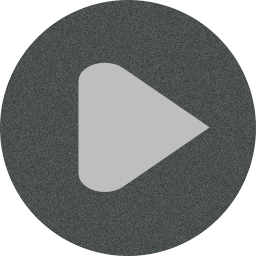
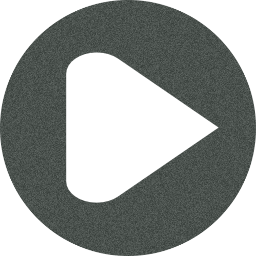
next button

Changed region(s): [[0.25, 0.1875, 0.8438, 0.8125]]

diff --git a/src/index.js b/src/index.js
@@ -102,6 +102,7 @@ let textureSpeedNormal = await PIXI.Assets.load({src: 'gfx/normal.png'})
 let textureSpeedFast = await PIXI.Assets.load({src: 'gfx/fast.png'})
 let textureBtnMenu = await PIXI.Assets.load({src: 'gfx/menu.png'})
 let textureBtnStop = await PIXI.Assets.load({src: 'gfx/stop.png'})
+let textureBtnPlay = await PIXI.Assets.load({src: 'gfx/play.png'})
 let textureBtnTrade = await PIXI.Assets.load({src: 'gfx/trade.png'})
 let texturePlayer = await PIXI.Assets.load({src: 'gfx/player.png'})
 let textureHodler = await PIXI.Assets.load({src: 'gfx/hodler.png'})
@@ -305,46 +306,11 @@ let textureCloud = await PIXI.Assets.load({src: 'gfx/cloud.png'})
         }
     }
 
-    let localStorageCache = {}
-
-    function setMute(value, type = '') {
-        localStorageCache['mute'+type] = value
-        localStorage.setItem('mute'+type, value)
-        
-        if (type === 'music') {
-            if (value) {
-                SoundManager.muteMusic()
-            } else {
-                SoundManager.unmuteMusic()
-            }
-        } else {
-            if (value) {
-                SoundManager.muteSounds()
-            } else {
-    
-                SoundManager.unmuteSounds()
-            }
-        }
-       
-    }
-
-    function getMute(type = '') {
-        return localStorageCache['mute'+type] ?? getBooleanFromLocalStorage('mute'+type)
-    }
 
     setMute(getMute())
     setMute(getMute('music'),'music')
 
-    function setWin(level, value) {
-        if (localStorageCache['l'+level] !== value) {
-            localStorageCache['l'+level] = value
-            localStorage.setItem('l'+level, value)
-        }
-    }
-
-    function getWin(level) {
-        return localStorageCache['l'+level] ?? getFloatFromLocalStorage('l'+level)
-    }
+    
 
     let options
     var maxVisiblePoints
@@ -587,7 +553,11 @@ let textureCloud = await PIXI.Assets.load({src: 'gfx/cloud.png'})
                 case 'w':
                 case 'Gamepads0':
                     if (isFinalScreen) {                
-                        startNewGame(options)
+                        if (yourFiat === options.fiatBTCHodler) {
+                            startNewGame(getNextLevel(options))
+                        } else {
+                            startNewGame(options)
+                        }
                         break;
                     }
                 case 'ArrowUp':
@@ -654,7 +624,11 @@ let textureCloud = await PIXI.Assets.load({src: 'gfx/cloud.png'})
                     startNewGame(gameData.levels.find(level => level.name === 'menu'))
                     showMenu(true)
                 } else if (swapImage.active) {
-                    startNewGame(options)
+                    if (yourFiat === options.fiatBTCHodler) {
+                        startNewGame(getNextLevel(options))
+                    } else {
+                        startNewGame(options)
+                    }
                 }
             }  else {
 
@@ -700,7 +674,7 @@ let textureCloud = await PIXI.Assets.load({src: 'gfx/cloud.png'})
     
     menu.visible = false
     startNewGame(gameData.levels.find(level => level.name === 'menu'))
-    showMenu(menu.visible)
+    showMenu(!menu.visible)
     app.ticker.add((deltaTime) => {
 
         handleGamepadInput()
@@ -790,6 +764,10 @@ let textureCloud = await PIXI.Assets.load({src: 'gfx/cloud.png'})
                     SoundManager.playSFX('game_lost')
                 }
 
+             
+                let tradeCount = trades.filter((trade,i) => ((i > 0 && i < trades.length && trade.fromName !== trade.toName))).length
+                let percentageCount = (yourCoinName === fiatName ? yourCoins : yourCoins*coins['BTC'].data[currentIndexInteger]?.price) / coins['BTC'].data[currentIndexInteger]?.price
+                setWin(options.name, percentageCount, tradeCount)
 
             }
             
@@ -993,9 +971,7 @@ let textureCloud = await PIXI.Assets.load({src: 'gfx/cloud.png'})
                 txt += "Oh no, you lost\n\n" 
             }
 
-            if (getWin(options.name) === 0 || res > getWin(options.name)) {
-                setWin(options.name, res)
-            }
+
 
             const word = hodlerActivities[Math.floor((deltaTime.lastTime * 0.0005) % hodlerActivities.length)];
            
@@ -1055,8 +1031,14 @@ let textureCloud = await PIXI.Assets.load({src: 'gfx/cloud.png'})
       
         if (isFinalScreen) {
             stopImage.texture = textureBtnMenu
-            swapImage.texture = textureBtnTrade
-            swapLabel.text = 'TRY AGAIN'
+           
+            if (yourFiat === options.fiatBTCHodler) {
+                swapLabel.text = options.next ? options.next.name : 'NEXT'
+                swapImage.texture = textureBtnPlay
+            } else {
+                swapLabel.text = 'TRY AGAIN'
+                swapImage.texture = textureBtnTrade
+            }
             stopLabel.text = 'MENU'
             
         } else{

diff --git a/src/helper.js b/src/helper.js
@@ -484,7 +484,7 @@ function parseGameData(jsonString, coins) {
     var gameData = JSON.parse(jsonString) 
     injectGeneratedLevels(gameData)
     
-    gameData.levels.forEach(level => {
+    gameData.levels.forEach((level,index) => {
         if (!level.coinNames) {
             //level.coinNames= Object.keys(coins).filter(name => name === 'BTC' || name === 'ADA'  || name === 'USD')
              level.coinNames = Object.keys(coins)
@@ -505,6 +505,7 @@ function parseGameData(jsonString, coins) {
         level.minPrice = pricesData.filter((p,index) => index >= level.indexStart && index <= level.indexEnd).reduce((max, p) => Math.min(p.price, max),Number.MAX_VALUE)
         level.music = level.music || 'music_game1'
         level.fiatStart = pricesData[ level.indexStart].price || 1000
+        level.next = index < gameData.levels.length ? gameData.levels[index+1] : null
         if (typeof level.stops === 'number' && !isNaN(level.stops)) {
             level.stops = generateDatesBetween(level.dateStart, level.dateEnd, level.stops)
         } else if (Array.isArray(level.stops)) {
@@ -663,4 +664,93 @@ function formatSpeedAsFraction(speed) {
 
     const denominator = Math.round(1 / speed); // Berechnet den Nenner für Brüche
     return `1/${denominator}x`;
+}
+
+
+let localStorageCache = {}
+
+function setMute(value, type = '') {
+    localStorageCache['mute'+type] = value
+    localStorage.setItem('mute'+type, value)
+    
+    if (type === 'music') {
+        if (value) {
+            SoundManager.muteMusic()
+        } else {
+            SoundManager.unmuteMusic()
+        }
+    } else {
+        if (value) {
+            SoundManager.muteSounds()
+        } else {
+
+            SoundManager.unmuteSounds()
+        }
+    }
+   
+}
+
+function getMute(type = '') {
+    return localStorageCache['mute'+type] ?? getBooleanFromLocalStorage('mute'+type)
+}
+
+function setWin(levelName, percentage, tradeCount) {
+    console.log('setWin', levelName, percentage, tradeCount)
+
+    const key = `t_${levelName}`;
+    const historyKey = `h_${levelName}`;
+    const hodledKey = `hodled_${levelName}`;
+    const newEntry = {
+        p: percentage,
+        t: tradeCount
+    };
+
+    if (!localStorageCache[key] || localStorageCache[key] && (localStorageCache[key].p !== newEntry.p  || localStorageCache[key].t !== newEntry.t)) {
+        localStorageCache[key] = newEntry
+
+        try {
+            let history = JSON.parse(localStorage.getItem(historyKey)) || [];
+            history.push(newEntry);
+            localStorage.setItem(historyKey, JSON.stringify(history));
+            
+            let bestScore = JSON.parse(localStorage.getItem(key));
+            if (!bestScore || percentage > bestScore.p) {
+                localStorage.setItem(key, JSON.stringify(newEntry));
+            }
+            
+            if (tradeCount === 0) {
+                localStorage.setItem(hodledKey, "21");
+            }
+            console.log(`Highscore saved.`);
+        } catch (e) {
+            console.error('Highscore Save error', e);
+        }
+    }
+}
+
+function getWin(levelName) {
+    const hodledKey = `hodled_${levelName}`;
+    const key = `t_${levelName}`;
+    let result = null
+    if (localStorageCache[key]) {
+        result = localStorageCache[key]
+    } else {
+        let content = localStorage.getItem(key)
+        if (content) {
+            result = JSON.parse(localStorage.getItem(key));
+        } 
+    }
+
+    if (result) {
+        result.hodled = localStorage.getItem(hodledKey)
+    }
+    return result
+}
+
+function getNextLevel(level) {
+    if (level.next) {
+        return level.next
+    } else {
+        return level
+    }
 }

diff --git a/src/menu.js b/src/menu.js
@@ -402,9 +402,10 @@ function updateMenu(menu, app, deltaTime, getMute, getWin, particles) {
                 entry.indexSubText.scale.set(0.3* (Math.max(640, app.screen.width)/640)* (entry.active ? 1.1 : 1.0)) 
                 entry.indexSubText.position.set(0,  entry.indexText.height/2)
                 entry.indexText.position.set(0,  -entry.indexText.height/2)
-                let score = getWin(entry.level.name)
-                entry.isCompleted = score > 0
-                entry.isCompletedLevelBefore = index2 === 0 || getWin(group.levelEntries[index2-1].level.name)
+                let win = getWin(entry.level.name)
+                let score = 100*(win?.p || 1.0)-100
+                entry.isCompleted = win?.hodled
+                entry.isCompletedLevelBefore = index2 === 0 || getWin(group.levelEntries[index2-1].level.name)?.hodled
                 entry.col = (index2 % cols)
                 entry.row = Math.floor(index2 / cols)
                 entry.position.set(entry.col * colw + colw*0.5,entry.row*colh + colh*0.5)
@@ -456,6 +457,10 @@ function updateMenu(menu, app, deltaTime, getMute, getWin, particles) {
                     color = 0x005500
                 } else {
                     color = 0x550000
+                }
+
+                if (win && win.hodled) {
+                    color = 0xF7931B
                 }
                 entry.indexBackground.tint = color
                 entry.indexDifficultyLabel.scale = entry.indexSubText.scale

diff --git a/README.md b/README.md
@@ -58,10 +58,9 @@ https://forum.affinity.serif.com/index.php?/topic/139587-icon-pack/
 
 # TODO´
 
-- gamepad/keyboard controls (e.g. fast forward)
 - levelCompleted: only if no trade happened
 - save all wins/losses
 - sound does not work on ios if switched app
-- graph as shader only
 - zoom button / mouse wheel?
 - optimize loading
+- graph as shader only
